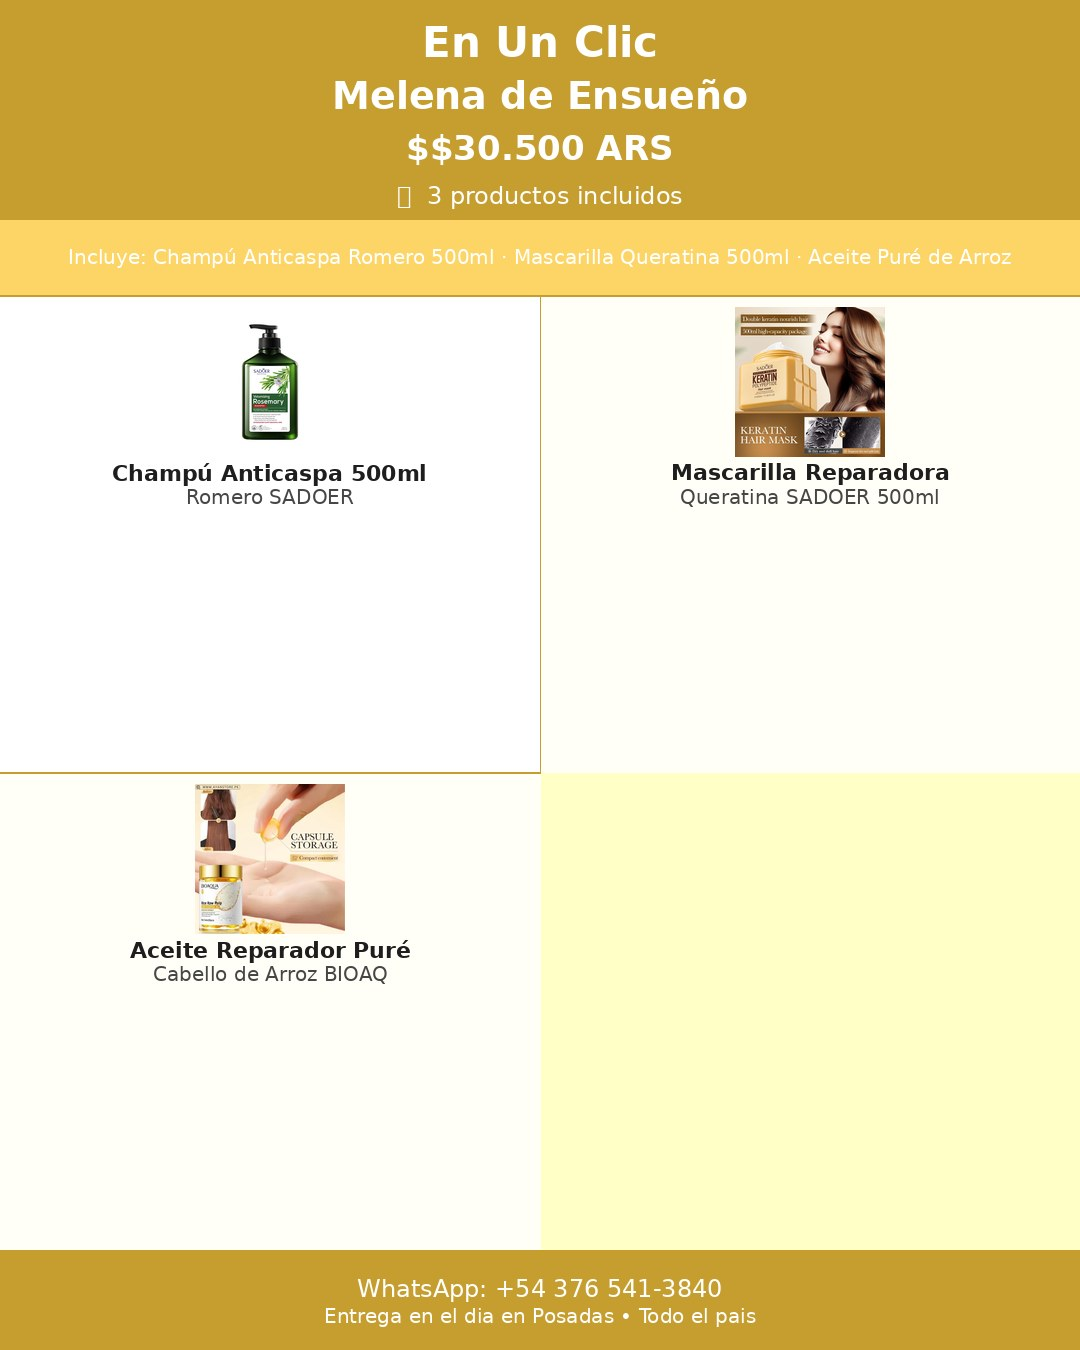
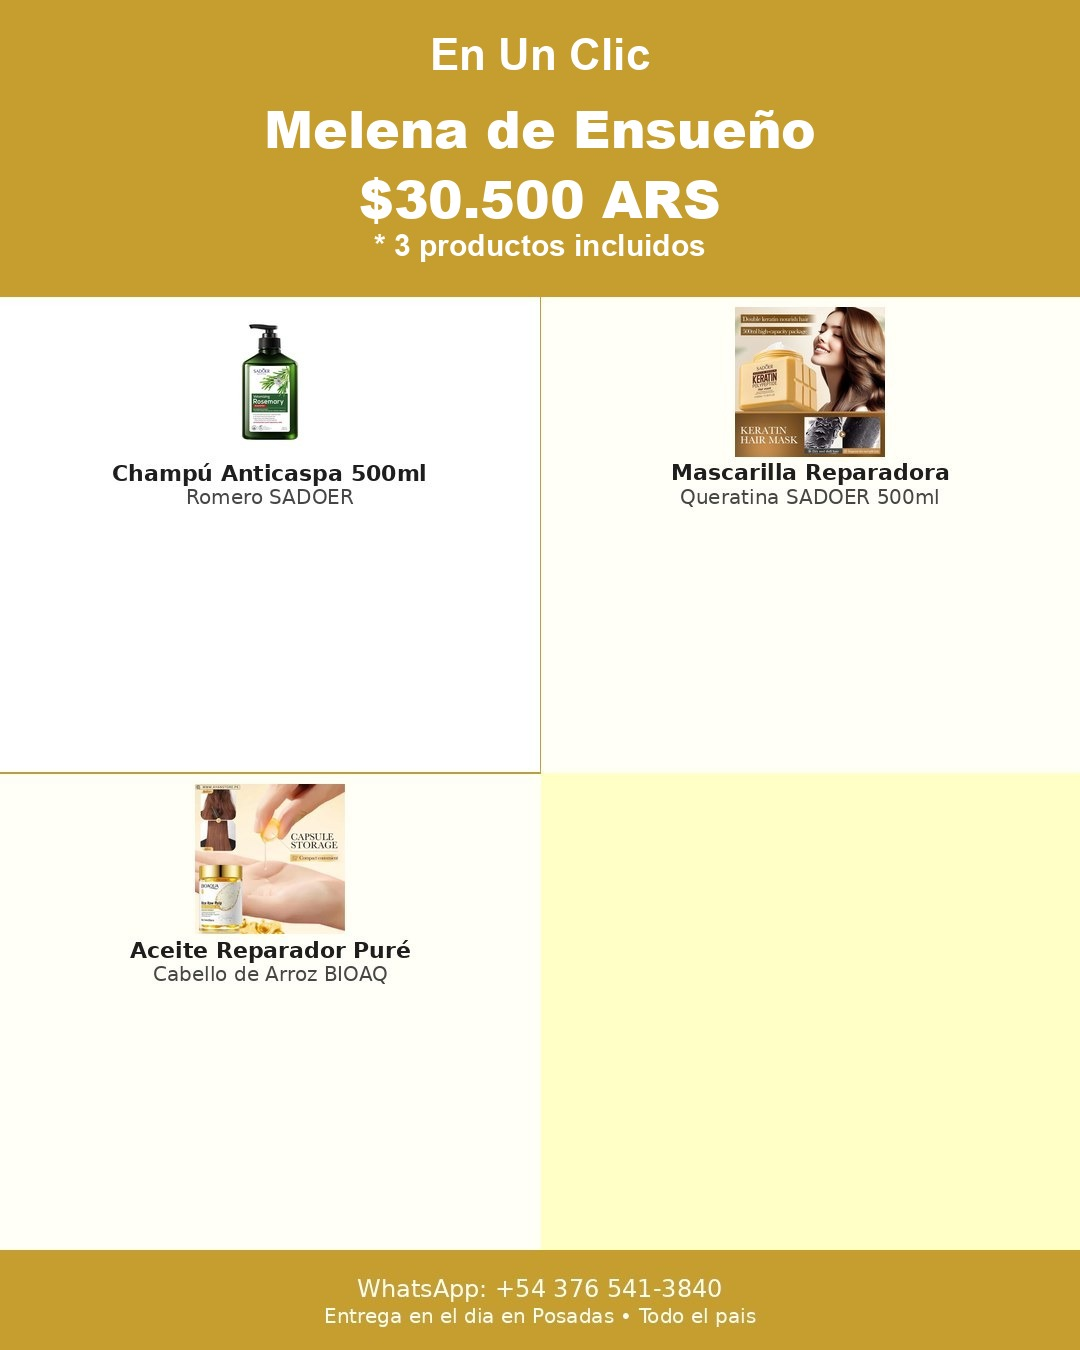
fix(previews): ordenar combos por precio DESC y corregir doble $$ en fichas individuales
- preview_combos.jpg: orden precio DESC (Experiencia Spa primero), título 'Combos Skincare'
- preview_combo-*.jpg: header regenerado sin doble signo de dólar
- generate_previews.py: script de generación para futuras actualizaciones

Changed region(s): [[0.0, 0.0, 1.0, 0.2178]]

diff --git a/generate_previews.py b/generate_previews.py
@@ -1,0 +1,220 @@
+#!/usr/bin/env python3
+"""
+Generador de imágenes de preview para catálogos En Un Clic.
+
+Uso:
+  python3 generate_previews.py             # regenera todos
+  python3 generate_previews.py combos      # solo el catálogo de combos
+  python3 generate_previews.py fix-dd      # corrige $$ → $ en fichas individuales
+
+Requiere: Pillow  →  pip install Pillow
+"""
+
+import os, sys, textwrap
+from PIL import Image, ImageDraw, ImageFont
+
+# ── Paths ─────────────────────────────────────────────────────────────────────
+REPO_DIR   = os.path.dirname(os.path.abspath(__file__))
+FONT_BOLD  = "/usr/share/fonts/truetype/msttcorefonts/Arial_Bold.ttf"
+FONT_REG   = "/usr/share/fonts/truetype/msttcorefonts/Arial.ttf"
+FONT_BLACK = "/usr/share/fonts/truetype/msttcorefonts/Arial_Black.ttf"
+
+# ── Brand ─────────────────────────────────────────────────────────────────────
+GOLD        = (198, 158, 47)
+WHITE       = (255, 255, 255)
+DARK_TEXT   = (40, 40, 40)
+LIGHT_TEXT  = (100, 100, 100)
+GOLD_TEXT   = (198, 158, 47)   # price color on white bg
+YELLOW_BG   = (253, 213, 102)  # description banner
+SEPARATOR   = (220, 210, 180)
+
+W, H = 1080, 1350
+WHATSAPP    = "+54 376 541-3840"
+FOOTER_LINE = "Entrega en el dia en Posadas • Todo el pais"
+
+# ── Combos — ORDENADOS precio DESC (price anchoring) ─────────────────────────
+COMBOS = [
+    {
+        "name":        "Experiencia Spa Total",
+        "description": "Incluye 8 productos: Mousse Limpiadora · Sérum Vit C · Protector Solar · Gel Ducha · Exfoliante · Loción Corporal · Champú · Aceite Capilar",
+        "price":       72000,
+        "slug":        "experiencia-spa-total",
+        "productos":   8,
+    },
+    {
+        "name":        "Piel de Seda Corporal",
+        "description": "Incluye: Gel de Ducha Rose 500ml · Exfoliante Melocotón 250g · Loción Niacinamida 250ml",
+        "price":       33000,
+        "slug":        "piel-seda-corporal",
+        "productos":   3,
+    },
+    {
+        "name":        "Melena de Ensueño",
+        "description": "Incluye: Champú Anticaspa Romero 500ml · Mascarilla Queratina 500ml · Aceite Reparador Puré de Arroz",
+        "price":       30500,
+        "slug":        "melena-sueno",
+        "productos":   3,
+    },
+    {
+        "name":        "Reparación Nocturna",
+        "description": "Incluye: Limpiador Retinol · Sérum Retinol+Cafeína · Crema de Ojos · Crema Colágeno Perla",
+        "price":       24500,
+        "slug":        "reparacion-nocturna",
+        "productos":   4,
+    },
+    {
+        "name":        "Mañana Radiante",
+        "description": "Incluye: Limpiador Vitamina C · Sérum Vitamina C 100ml · Protector Solar SPF50+",
+        "price":       14500,
+        "slug":        "manana-radiante",
+        "productos":   3,
+    },
+    {
+        "name":        "Manos de Terciopelo",
+        "description": "Incluye: Crema Manos 150g · Crema Bolso 30g · Crema Anti-grietas 60g",
+        "price":        9400,
+        "slug":        "manos-terciopelo",
+        "productos":   3,
+    },
+]
+
+# ── Helpers ───────────────────────────────────────────────────────────────────
+
+def font(path, size):
+    return ImageFont.truetype(path, size)
+
+def centered_text(draw, text, y, font_obj, color, width=W):
+    bbox = draw.textbbox((0, 0), text, font=font_obj)
+    tw = bbox[2] - bbox[0]
+    draw.text(((width - tw) // 2, y), text, font=font_obj, fill=color)
+
+def price_str(p):
+    """$72.000  (punto como separador de miles, sin doble $$)"""
+    return f"${p:,.0f}".replace(",", ".")
+
+def draw_header(draw, title_line1, title_line2=None, bg_color=GOLD):
+    """Gold header con dos líneas de título."""
+    draw.rectangle([0, 0, W, 185], fill=bg_color)
+    f_brand = font(FONT_BOLD, 48)
+    f_title = font(FONT_BLACK, 58) if title_line2 else font(FONT_BOLD, 60)
+    centered_text(draw, "En Un Clic", 28, f_brand, WHITE)
+    if title_line2:
+        centered_text(draw, title_line2, 100, f_title, WHITE)
+    else:
+        centered_text(draw, title_line1, 85, font(FONT_BOLD, 52), WHITE)
+
+def draw_footer(draw, y_start=H-90):
+    draw.rectangle([0, y_start, W, H], fill=GOLD)
+    f = font(FONT_BOLD, 34)
+    f2 = font(FONT_REG, 26)
+    centered_text(draw, f"WhatsApp: {WHATSAPP}", y_start + 14, f, WHITE)
+    centered_text(draw, FOOTER_LINE, y_start + 54, f2, WHITE)
+
+
+# ── 1. preview_combos.jpg ─────────────────────────────────────────────────────
+
+def generate_combos_catalog():
+    """Lista de todos los combos ordenados por precio DESC."""
+    img = Image.new("RGB", (W, H), WHITE)
+    draw = ImageDraw.Draw(img)
+
+    # Header
+    draw.rectangle([0, 0, W, 185], fill=GOLD)
+    centered_text(draw, "En Un Clic",       28,  font(FONT_BOLD, 48),  WHITE)
+    centered_text(draw, "Combos Skincare",  100, font(FONT_BLACK, 56), WHITE)
+
+    # Items
+    margin_l = 60
+    margin_r = 60
+    y = 210
+    row_h = (H - 90 - 210) // len(COMBOS)   # dynamic row height
+
+    f_name   = font(FONT_BOLD, 36)
+    f_desc   = font(FONT_REG,  26)
+    f_price  = font(FONT_BLACK, 44)
+
+    for i, combo in enumerate(COMBOS):
+        # Product name
+        draw.text((margin_l, y + 10), combo["name"], font=f_name, fill=DARK_TEXT)
+
+        # Description (truncated to one line)
+        desc_short = combo["description"]
+        if len(desc_short) > 62:
+            desc_short = desc_short[:59] + "…"
+        draw.text((margin_l, y + 54), desc_short, font=f_desc, fill=LIGHT_TEXT)
+
+        # Price (right-aligned)
+        p_text = price_str(combo["price"])
+        bbox = draw.textbbox((0, 0), p_text, font=f_price)
+        pw = bbox[2] - bbox[0]
+        draw.text((W - margin_r - pw, y + 22), p_text, font=f_price, fill=GOLD_TEXT)
+
+        # Separator (not after last item)
+        if i < len(COMBOS) - 1:
+            draw.line([(margin_l, y + row_h - 8), (W - margin_r, y + row_h - 8)],
+                      fill=SEPARATOR, width=2)
+
+        y += row_h
+
+    draw_footer(draw)
+
+    out = os.path.join(REPO_DIR, "preview_combos.jpg")
+    img.save(out, "JPEG", quality=92)
+    print(f"✓ {out}")
+
+
+# ── 2. Fichas individuales — fix $$ en header ─────────────────────────────────
+
+INDIVIDUAL_HEADER_H = 295   # gold header height (y=0..295)
+
+def fix_individual_header(slug, name, price, n_products):
+    """Repinta el header de una ficha individual corrigiendo $$→$."""
+    src = os.path.join(REPO_DIR, f"preview_combo-{slug}.jpg")
+    if not os.path.exists(src):
+        print(f"  ✗ no existe: {src}")
+        return
+
+    img = Image.open(src).convert("RGB")
+    draw = ImageDraw.Draw(img)
+
+    # Repaint header region
+    draw.rectangle([0, 0, W, INDIVIDUAL_HEADER_H], fill=GOLD)
+
+    # "En Un Clic"
+    centered_text(draw, "En Un Clic", 30, font(FONT_BOLD, 44), WHITE)
+    # Product name
+    centered_text(draw, name, 90, font(FONT_BLACK, 52), WHITE)
+    # Price — single $
+    centered_text(draw, f"{price_str(price)} ARS", 160, font(FONT_BLACK, 52), WHITE)
+    # N productos
+    centered_text(draw, f"* {n_products} productos incluidos", 228, font(FONT_BOLD, 30), WHITE)
+
+    out = os.path.join(REPO_DIR, f"preview_combo-{slug}.jpg")
+    img.save(out, "JPEG", quality=92)
+    print(f"✓ {out}")
+
+
+def fix_all_individual():
+    for combo in COMBOS:
+        fix_individual_header(
+            combo["slug"],
+            combo["name"],
+            combo["price"],
+            combo["productos"],
+        )
+
+
+# ── Entry point ───────────────────────────────────────────────────────────────
+
+if __name__ == "__main__":
+    mode = sys.argv[1] if len(sys.argv) > 1 else "all"
+
+    if mode in ("all", "combos"):
+        print("Generando preview_combos.jpg...")
+        generate_combos_catalog()
+
+    if mode in ("all", "fix-dd", "fix"):
+        print("Corrigiendo $$ en fichas individuales...")
+        fix_all_individual()
+
+    print("\nListo.")
